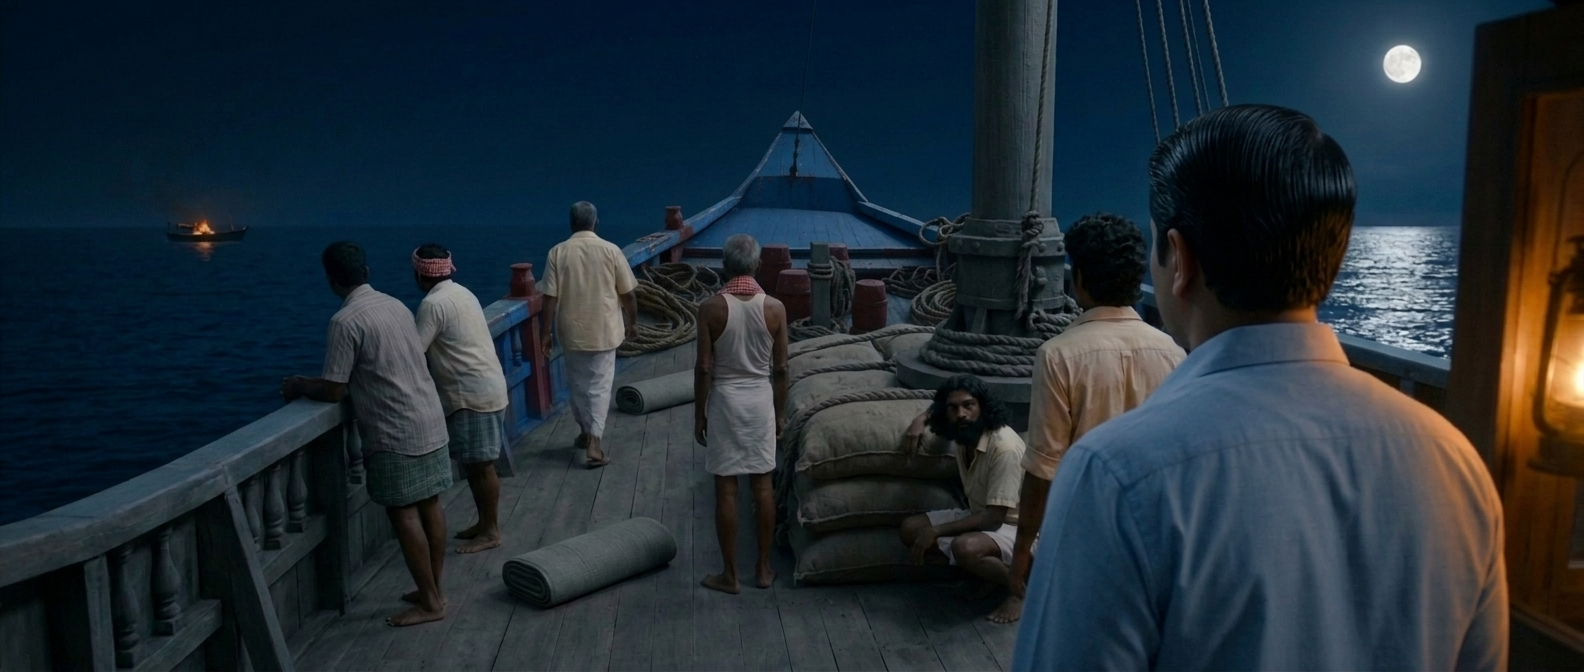
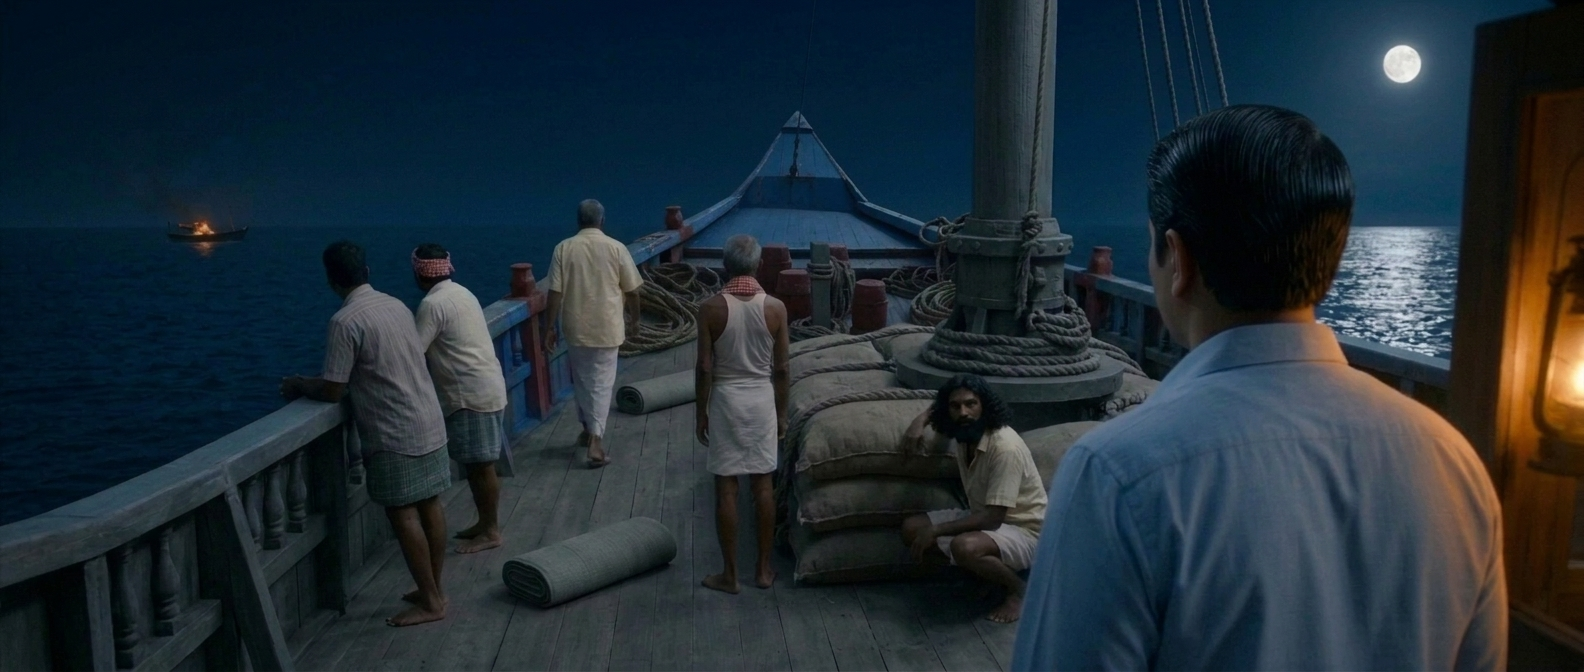
Ranjith: shot: s23-sh06c v5 Suresh comes up later (not beside Balan at the start)

diff --git a/scenes/showreel/s23-sh06c.md b/scenes/showreel/s23-sh06c.md
@@ -17,10 +17,10 @@ Place: our uru. Looking forward from the deckhouse door: the main deck; the left
 Light: a clear full-moon night; the full moon stands high, ahead and to the RIGHT of the bow: in the first view it is at the upper right with its silver path on the sea at the right; at the rail, looking out to the left, it is off the right edge of the frame and rims the men's right shoulders. Blue and readable, never black; warm light only from the lantern in the doorway behind.
 People: Balan: about 35, black hair oiled and combed back with a side parting, thin moustache, LIGHT-BLUE full-sleeve shirt with two pens in the left pocket, white mundu, black shoes. Suresh: curly hair, moustache, cream shirt with sleeves rolled, green small-check mundu, red thread on his RIGHT wrist. Antony: short black hair, grey-beige short-sleeve shirt with thin vertical stripes, green-grey checked mundu. Babu: heavy-set, red-and-white checked towel tied round his head, checked lungi. Raghavan: thin, grey hair uncovered, white vest, white mundu, checked towel round his NECK. Sasi: long black curly hair, full beard, off-white shirt. Aashaan: grey hair, cream shirt over a white vest, white towel on his LEFT shoulder. One of each; only Suresh has a red thread.
 Fire: one small fishing vallam burning 500 m away, ahead-left of the uru: small on the horizon but clearly a boat on fire, never close.
-NOW: Balan in the deckhouse doorway, shocked, Suresh a step beside him; Antony and Babu at the left rail; Raghavan mid-deck; Sasi by the sacks; Aashaan walking forward along the left side.
+NOW: Balan alone in the deckhouse doorway, shocked, as at the end of the previous shot; Suresh still below, not yet seen; Antony and Babu at the left rail; Raghavan mid-deck; Sasi by the sacks; Aashaan walking forward along the left side.
 
 ACTIVE REFERENCES
-@s23sh06cstart (start image, 0.0s): the exact first frame, from behind Balan's shoulder in the doorway, looking forward along the deck. 100% matches the reference.
+@s23sh06cstart (start image, 0.0s): the exact first frame, from behind Balan's shoulder in the doorway, looking forward along the deck; Balan alone at the door. 100% matches the reference.
 @s23sh06cend (reference, 10.0s): how the shot ends: behind Balan (left) and Antony (right) at the left rail, the burning boat small between their heads. Keyframes give place, framing and poses; faces and costumes come from the sheets.
 @urubowplate (background only, 0.0s–6.0s): our bow at the far end of the deck. 100% matches the reference.
 @burningvallamnomoon (background only, 500 m): the same burning boat, small and far, nobody on it.
@@ -30,8 +30,8 @@ CAMERA
 A steady follow from behind Balan's right shoulder at shoulder height, as if carried: 0.0s–2.0s still in the doorway; 2.0s–7.0s moving forward with him across the deck, keeping his head and shoulder at the right of the frame; 7.0s–8.5s turning left with him to the rail; 8.5s–10.0s settled just behind Balan and Antony, still, on the view of @s23sh06cend. The camera rides with the boat.
 
 ACTION
-0.0s–2.0s: Balan stands frozen in the doorway, breathing hard; Suresh beside him.
-2.0s–7.0s: Balan hurries forward across the deck, round the two rolled mats, past Raghavan; Suresh follows a few steps behind and stops by Sasi at the sacks. Aashaan is already ahead at the rail.
+0.0s–2.0s: Balan stands frozen in the doorway, breathing hard; nobody beside him.
+2.0s–7.0s: Balan hurries forward across the deck, round the two rolled mats, past Raghavan. At 4.0s Suresh, only now up from below, hurries past the camera on the right and stops by Sasi at the sacks. Aashaan is already ahead at the rail.
 7.0s–8.5s: Balan reaches the left rail and squeezes in beside Antony, between him and Raghavan's place, both hands on the rail.
 8.5s–10.0s: Balan stares out at the burning boat; Antony turns his head to Balan, breathing fast. Hold.
 
@@ -64,6 +64,7 @@ One continuous follow shot, no cut. Every prop stays where it lies: mast, sacks,
 
 
 ## History
+- v5 (2026-11-12, later): the s23-sh06b take never shows Suresh (Ranjith), so Suresh is still below at the start: removed from the start keyframe; he comes up past the camera at 4.0s.
 - v5 (2026-11-12): Ranjith chose a follow from behind Balan; keyframes: start looking forward from the door (moon upper right, our blue bow after a fix, Balan's shirt fixed to light blue) and end at the rail behind Balan and Antony with the fire between them (from the approved s23-sh03 view).
 - v4 (2026-11-12): Ranjith: follows s23-sh05 v6 (the crew were already awake in the approved s21-sh04 take; Aashaan back at the wheel, end order unchanged, so this shot stands). Antony's shirt is the grey-beige stripes of the night (MEMORY); Raghavan's towel written with its tell (L149).
 - v3 (2026-11-12): Ranjith: full-moon redo (SB027–SB032) in the look of his reference video: moon placed by the night sheet (ahead-right of the bow, L142), blue readable light, the bow is @urubowplate (L143), plates swapped to the full-moon IDs. Action, positions, lines and timing unchanged (L114). A start image means the last frame of the NEW full-moon take of the shot before.

diff --git a/scenes/showreel/image-qa/s23-wake-keyframes-qc.md b/scenes/showreel/image-qa/s23-wake-keyframes-qc.md
@@ -23,3 +23,4 @@ Edited from @s23backlast. Both rolled mats in place (L151), Antony and Babu unch
 ## s23-sh06c (Ranjith 2026-11-12)
 - @s23sh06cstart: first version had a plain wooden bow (not @urubowplate) and Balan's shirt reading brown under the lantern: both fixed. Moon upper right with its path (forward view, L142), fire far left, mats, mast and sacks on the right (starboard). Score 88.
 - @s23sh06cend: Balan left, Antony right, fire between their heads, 500 m and readable; no hand near the camera (L150). Score 88.
+- @s23sh06cstart re-edit (2026-11-12): Suresh removed, because the approved s23-sh06b take never shows him (Ranjith). Nothing else changed.
